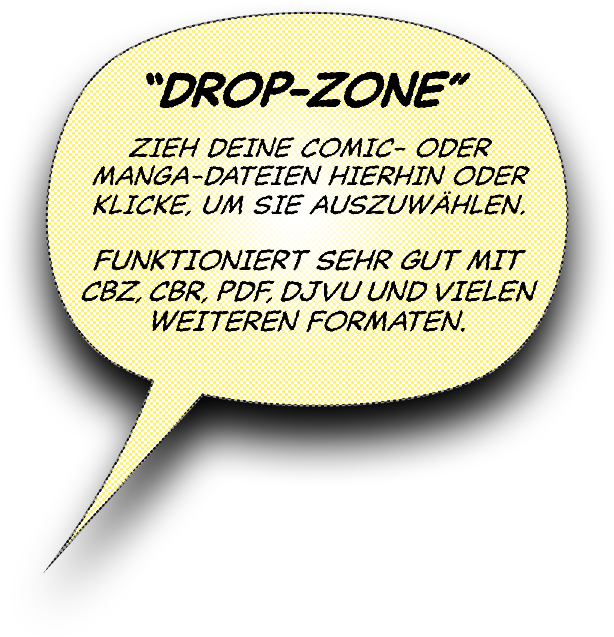
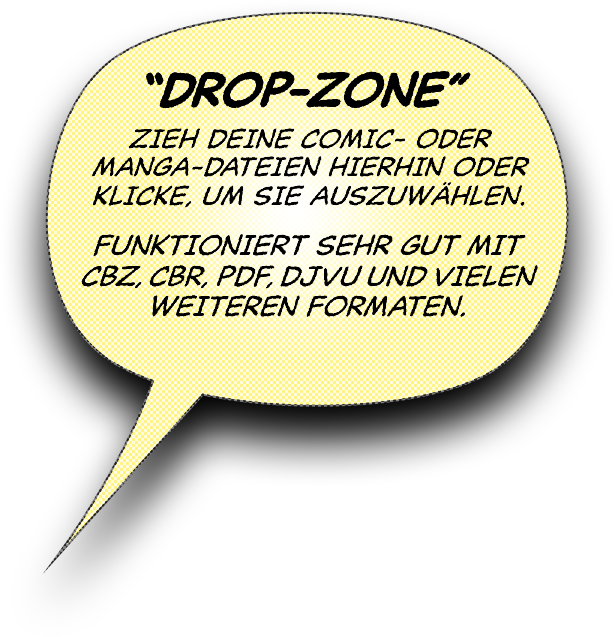
feat: add localized onboarding final-step assets
- add translated onboarding step four and final-step bubble images for German, Spanish, French, Japanese, Korean, and Simplified Chinese
- include localized final-step top and bottom bubble assets in the Qt resource list
- mark onboarding step four and final-step artwork as language-specific when localized assets are available

Changed region(s): [[0.0619, 0.0, 0.9283, 0.8053], [0.1238, 0.8053, 0.1547, 0.8352]]

diff --git a/comicflow-qt/qml/components/OnboardingAssets.js b/comicflow-qt/qml/components/OnboardingAssets.js
@@ -18,12 +18,12 @@ var assetFiles = {
 }
 
 var localizedAssetKeysByLanguage = {
-    de: { back: true, close: true, next: true, step1: true, step2: true, step3: true },
-    es: { back: true, close: true, next: true, step1: true, step2: true, step3: true },
-    fr: { back: true, close: true, next: true, step1: true, step2: true, step3: true },
-    ja: { back: true, close: true, next: true, step1: true, step2: true, step3: true },
-    ko: { back: true, close: true, next: true, step1: true, step2: true, step3: true },
-    "zh-Hans": { back: true, close: true, next: true, step1: true, step2: true, step3: true }
+    de: { back: true, close: true, next: true, step1: true, step2: true, step3: true, step4: true, step5Top: true, step5Bottom: true },
+    es: { back: true, close: true, next: true, step1: true, step2: true, step3: true, step4: true, step5Top: true, step5Bottom: true },
+    fr: { back: true, close: true, next: true, step1: true, step2: true, step3: true, step4: true, step5Top: true, step5Bottom: true },
+    ja: { back: true, close: true, next: true, step1: true, step2: true, step3: true, step4: true, step5Top: true, step5Bottom: true },
+    ko: { back: true, close: true, next: true, step1: true, step2: true, step3: true, step4: true, step5Top: true, step5Bottom: true },
+    "zh-Hans": { back: true, close: true, next: true, step1: true, step2: true, step3: true, step4: true, step5Top: true, step5Bottom: true }
 }
 
 function assetFile(assetKey) {
